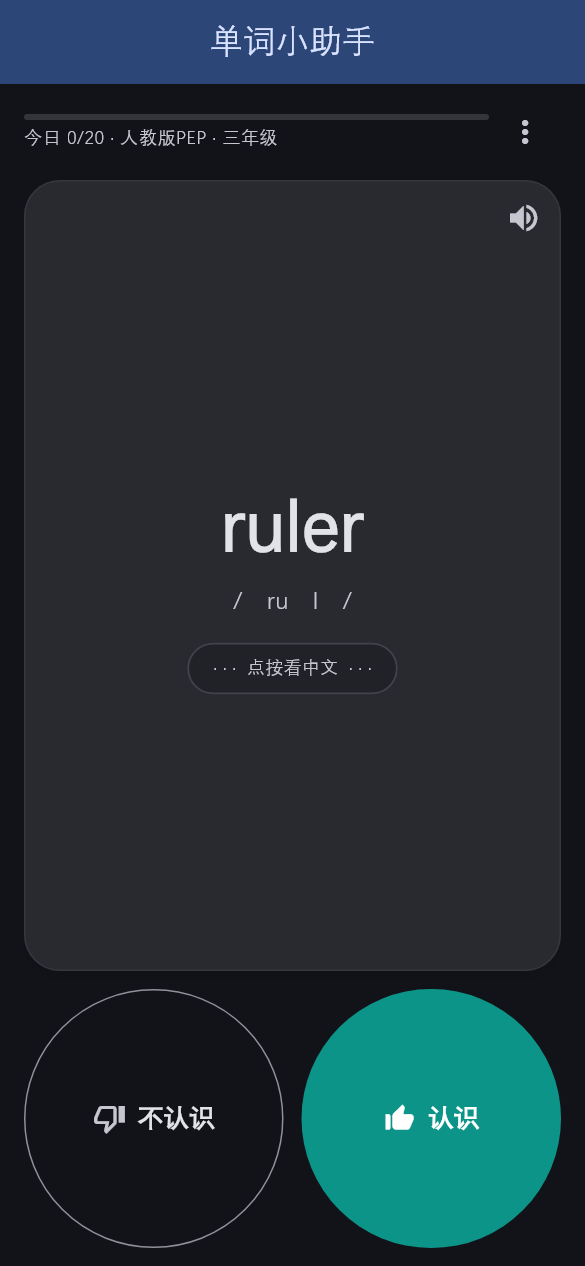
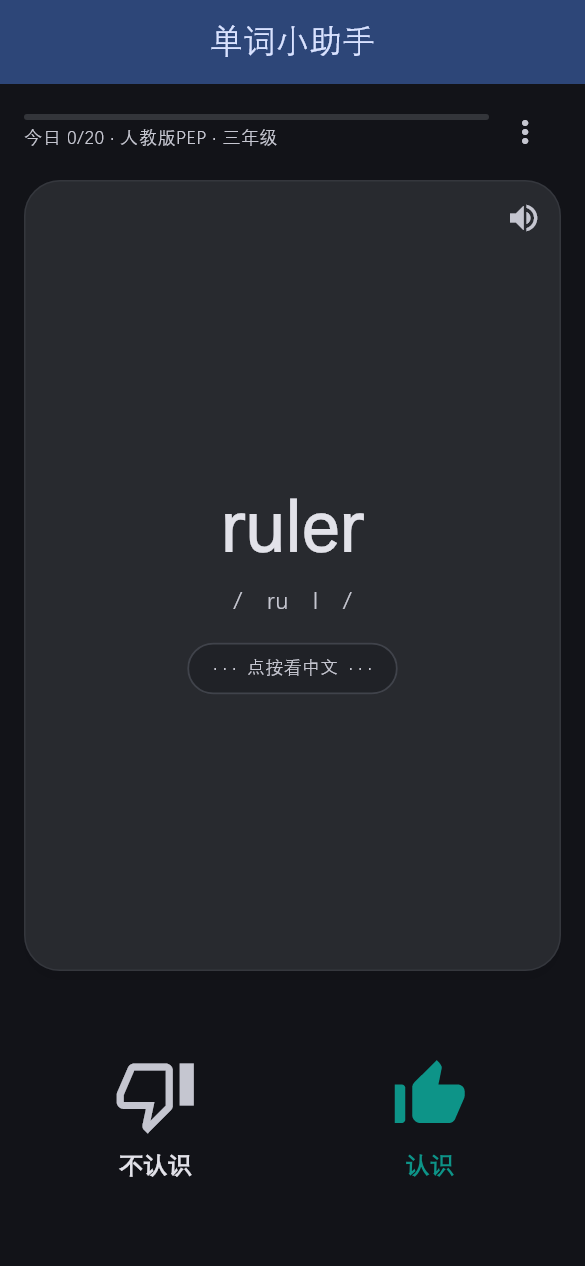
feat(learn): 无外框大拇指 + 认识弹性伸出形变
去掉胶囊圆框；认识拇指纵向拉伸/横向挤压再弹回，点按有涟漪。

Changed region(s): [[0.4615, 0.7701, 0.9846, 0.9858], [0.1538, 0.8318, 0.3692, 0.955], [0.0308, 0.8626, 0.0615, 0.9242]]

diff --git a/lib/screens/learn_screen.dart b/lib/screens/learn_screen.dart
@@ -795,73 +795,56 @@ class _LearnScreenState extends State<LearnScreen> {
         }
 
         Widget ctaRow({required bool vertical}) {
-          // R43.1: bare thumb glyphs beside label (no circular icon frame); stadium pills.
+          // Large bare thumbs (no pill/circle). 认识: elastic stretch-out + settle.
+          final iconSize = vertical ? 64.0 : 56.0;
           final unknown = _PressScale(
-            child: OutlinedButton(
-              key: const ValueKey('learn_unknown'),
-              style: OutlinedButton.styleFrom(
-                shape: const StadiumBorder(),
-                side: BorderSide(color: scheme.outline),
-                foregroundColor: scheme.onSurface,
-                minimumSize: Size.fromHeight(vertical ? 56 : 52),
-              ),
-              onPressed: _flashKind != null ? null : _onUnknown,
-              child: Padding(
-                padding: EdgeInsets.symmetric(vertical: vertical ? 16 : 12),
-                child: Row(
-                  mainAxisAlignment: MainAxisAlignment.center,
-                  mainAxisSize: MainAxisSize.min,
-                  children: [
-                    Icon(
-                      Icons.thumb_down_alt_outlined,
-                      size: 22,
-                      color: scheme.onSurfaceVariant,
+            child: Material(
+              color: Colors.transparent,
+              child: InkWell(
+                key: const ValueKey('learn_unknown'),
+                onTap: _flashKind != null ? null : _onUnknown,
+                borderRadius: BorderRadius.circular(20),
+                splashColor: scheme.onSurface.withValues(alpha: 0.08),
+                child: Opacity(
+                  opacity: _flashKind != null ? 0.4 : 1,
+                  child: Padding(
+                    padding: EdgeInsets.symmetric(
+                      vertical: vertical ? 12 : 8,
+                      horizontal: 8,
                     ),
-                    const SizedBox(width: 8),
-                    Text(
-                      '不认识',
-                      style: TextStyle(
-                        fontSize: 17,
-                        fontWeight: FontWeight.w600,
-                        color: scheme.onSurface,
-                      ),
+                    child: Column(
+                      mainAxisAlignment: MainAxisAlignment.center,
+                      mainAxisSize: MainAxisSize.min,
+                      children: [
+                        Icon(
+                          Icons.thumb_down_alt_outlined,
+                          size: iconSize,
+                          color: scheme.onSurfaceVariant,
+                        ),
+                        const SizedBox(height: 8),
+                        Text(
+                          '不认识',
+                          style: TextStyle(
+                            fontSize: 16,
+                            fontWeight: FontWeight.w700,
+                            color: scheme.onSurface,
+                          ),
+                        ),
+                      ],
                     ),
-                  ],
+                  ),
                 ),
               ),
             ),
           );
-          final known = _PressScale(
-            child: FilledButton(
-              key: const ValueKey('learn_known'),
-              style: FilledButton.styleFrom(
-                backgroundColor: knowTeal,
-                foregroundColor: Colors.white,
-                disabledBackgroundColor: knowTeal.withValues(alpha: 0.45),
-                shape: const StadiumBorder(),
-                minimumSize: Size.fromHeight(vertical ? 56 : 52),
-              ),
-              onPressed: _flashKind != null ? null : _onKnown,
-              child: Padding(
-                padding: EdgeInsets.symmetric(vertical: vertical ? 16 : 12),
-                child: const Row(
-                  mainAxisAlignment: MainAxisAlignment.center,
-                  mainAxisSize: MainAxisSize.min,
-                  children: [
-                    Icon(Icons.thumb_up_alt, size: 22, color: Colors.white),
-                    SizedBox(width: 8),
-                    Text(
-                      '认识',
-                      style: TextStyle(
-                        fontSize: 17,
-                        fontWeight: FontWeight.w700,
-                        color: Colors.white,
-                      ),
-                    ),
-                  ],
-                ),
-              ),
-            ),
+          final known = _ElasticThumbCta(
+            key: const ValueKey('learn_known'),
+            enabled: _flashKind == null,
+            vertical: vertical,
+            iconSize: iconSize,
+            color: knowTeal,
+            label: '认识',
+            onAction: _onKnown,
           );
           if (vertical) {
             return Column(
@@ -874,17 +857,18 @@ class _LearnScreenState extends State<LearnScreen> {
             );
           }
           return ConstrainedBox(
-            constraints: BoxConstraints(minHeight: ctaMinH.clamp(56.0, 120.0)),
+            constraints: BoxConstraints(minHeight: ctaMinH.clamp(88.0, 140.0)),
             child: Row(
               crossAxisAlignment: CrossAxisAlignment.stretch,
               children: [
                 Expanded(child: unknown),
-                const SizedBox(width: 12),
+                const SizedBox(width: 8),
                 Expanded(child: known),
               ],
             ),
           );
         }
+
 
         return Padding(
           padding: EdgeInsets.fromLTRB(hPad, vPad, hPad, vPad + 4),
@@ -929,6 +913,134 @@ class _LearnScreenState extends State<LearnScreen> {
   }
 }
 
+
+/// 认识 CTA: thumb stretches out (squash/stretch) then elastic settle — not a plain scale.
+class _ElasticThumbCta extends StatefulWidget {
+  const _ElasticThumbCta({
+    super.key,
+    required this.enabled,
+    required this.vertical,
+    required this.iconSize,
+    required this.color,
+    required this.label,
+    required this.onAction,
+  });
+
+  final bool enabled;
+  final bool vertical;
+  final double iconSize;
+  final Color color;
+  final String label;
+  final Future<void> Function() onAction;
+
+  @override
+  State<_ElasticThumbCta> createState() => _ElasticThumbCtaState();
+}
+
+class _ElasticThumbCtaState extends State<_ElasticThumbCta>
+    with SingleTickerProviderStateMixin {
+  late final AnimationController _c = AnimationController(
+    vsync: this,
+    duration: const Duration(milliseconds: 620),
+  );
+  bool _busy = false;
+
+  @override
+  void dispose() {
+    _c.dispose();
+    super.dispose();
+  }
+
+  Future<void> _play() async {
+    if (!widget.enabled || _busy) return;
+    _busy = true;
+    // Fire learning action near peak stretch so card advances while thumb settles.
+    final action = widget.onAction();
+    await _c.forward(from: 0);
+    await action;
+    if (mounted) {
+      _c.value = 0;
+      _busy = false;
+    }
+  }
+
+  @override
+  Widget build(BuildContext context) {
+    final enabled = widget.enabled && !_busy;
+    return Material(
+      color: Colors.transparent,
+      child: InkWell(
+        onTap: enabled ? _play : null,
+        borderRadius: BorderRadius.circular(20),
+        splashColor: widget.color.withValues(alpha: 0.16),
+        highlightColor: widget.color.withValues(alpha: 0.06),
+        child: Opacity(
+          opacity: widget.enabled ? 1 : 0.4,
+          child: Padding(
+            padding: EdgeInsets.symmetric(
+              vertical: widget.vertical ? 12 : 8,
+              horizontal: 8,
+            ),
+            child: AnimatedBuilder(
+              animation: _c,
+              builder: (context, _) {
+                // 0..0.38 stretch out; 0.38..1 elastic retract.
+                final tv = _c.value;
+                double stretch; // 0 = rest, 1 = max reach
+                if (tv <= 0.38) {
+                  stretch = Curves.easeOutCubic.transform(tv / 0.38);
+                } else {
+                  final u = ((tv - 0.38) / 0.62).clamp(0.0, 1.0);
+                  // Retract with overshoot feel, then clamp.
+                  stretch = (1 - Curves.easeOutBack.transform(u)).clamp(0.0, 1.2);
+                }
+                final sy = 1.0 + 0.72 * stretch; // elongate
+                final sx = 1.0 - 0.22 * stretch; // squash
+                final lift = -18.0 * stretch;
+                final tilt = -0.12 * stretch; // radians, slight lean
+                return Column(
+                  mainAxisAlignment: MainAxisAlignment.center,
+                  mainAxisSize: MainAxisSize.min,
+                  children: [
+                    Transform(
+                      alignment: Alignment.bottomCenter,
+                      transform: Matrix4.identity()
+                        ..setEntry(1, 3, lift) // ty
+                        ..rotateZ(tilt)
+                        ..setEntry(0, 0, sx)
+                        ..setEntry(1, 1, sy),
+                      child: Icon(
+                        Icons.thumb_up_alt,
+                        size: widget.iconSize,
+                        color: widget.color,
+                        shadows: [
+                          Shadow(
+                            color: widget.color.withValues(alpha: 0.28 * stretch),
+                            blurRadius: 10 + 16 * stretch,
+                            offset: Offset(0, 4 * stretch),
+                          ),
+                        ],
+                      ),
+                    ),
+                    const SizedBox(height: 8),
+                    Text(
+                      widget.label,
+                      style: TextStyle(
+                        fontSize: 16,
+                        fontWeight: FontWeight.w700,
+                        color: widget.color,
+                      ),
+                    ),
+                  ],
+                );
+              },
+            ),
+          ),
+        ),
+      ),
+    );
+  }
+}
 
 /// Press feedback: scale to 0.98 for ~150ms (P2 learn-scale).
 class _PressScale extends StatefulWidget {

diff --git a/test/learn_scale_test.dart b/test/learn_scale_test.dart
@@ -10,7 +10,7 @@ import 'package:vocab_helper/theme/app_theme.dart';
 void main() {
   TestWidgetsFlutterBinding.ensureInitialized();
 
-  testWidgets('know/unknown wrapped in AnimatedScale 0.98 on press', (tester) async {
+  testWidgets('unknown press scale; known elastic stretch Transform', (tester) async {
     SharedPreferences.setMockInitialValues({
       'selected_book_id': 'pep-ps-3',
       'daily_goal': 20,
@@ -40,33 +40,44 @@ void main() {
     });
     for (var i = 0; i < 40; i++) {
       await tester.pump(const Duration(milliseconds: 50));
+      if (find.byKey(const ValueKey('learn_known')).evaluate().isNotEmpty) break;
     }
 
     expect(find.byKey(const ValueKey('learn_known')), findsOneWidget);
     expect(find.byKey(const ValueKey('learn_unknown')), findsOneWidget);
 
+    // 不认识: still soft AnimatedScale press.
     final scales = find.byType(AnimatedScale);
     expect(scales, findsWidgets);
-
-    // Press known: scale goes to 0.98
-    final gesture = await tester.startGesture(tester.getCenter(find.byKey(const ValueKey('learn_known'))));
+    final gUnknown = await tester.startGesture(
+      tester.getCenter(find.byKey(const ValueKey('learn_unknown'))),
+    );
     await tester.pump();
     await tester.pump(const Duration(milliseconds: 20));
-    AnimatedScale? pressed;
-    for (final e in scales.evaluate()) {
-      final w = e.widget as AnimatedScale;
-      if (w.scale == 0.98) {
-        pressed = w;
+    expect(
+      scales.evaluate().any((e) => (e.widget as AnimatedScale).scale == 0.98),
+      isTrue,
+      reason: 'unknown should press-scale to 0.98',
+    );
+    await gUnknown.up();
+    await tester.pump();
+
+    // 认识: elastic Transform stretches (sy > 1) mid animation.
+    await tester.tap(find.byKey(const ValueKey('learn_known')));
+    await tester.pump();
+    await tester.pump(const Duration(milliseconds: 120));
+    final transforms = find.byType(Transform);
+    var stretched = false;
+    for (final e in transforms.evaluate()) {
+      final m = (e.widget as Transform).transform;
+      final sy = m.entry(1, 1);
+      if (sy > 1.05) {
+        stretched = true;
         break;
       }
     }
-    expect(pressed, isNotNull, reason: 'expected AnimatedScale 0.98 while pressed');
-    expect(pressed!.duration, const Duration(milliseconds: 150));
-
-    await gesture.up();
-    await tester.pump();
-    // Allow R43 slide/flash timer (250ms) to finish.
-    await tester.pump(const Duration(milliseconds: 300));
+    expect(stretched, isTrue, reason: 'known thumb should elongate (sy>1)');
+    await tester.pump(const Duration(milliseconds: 550));
     await tester.pump(const Duration(milliseconds: 300));
   });
 }
